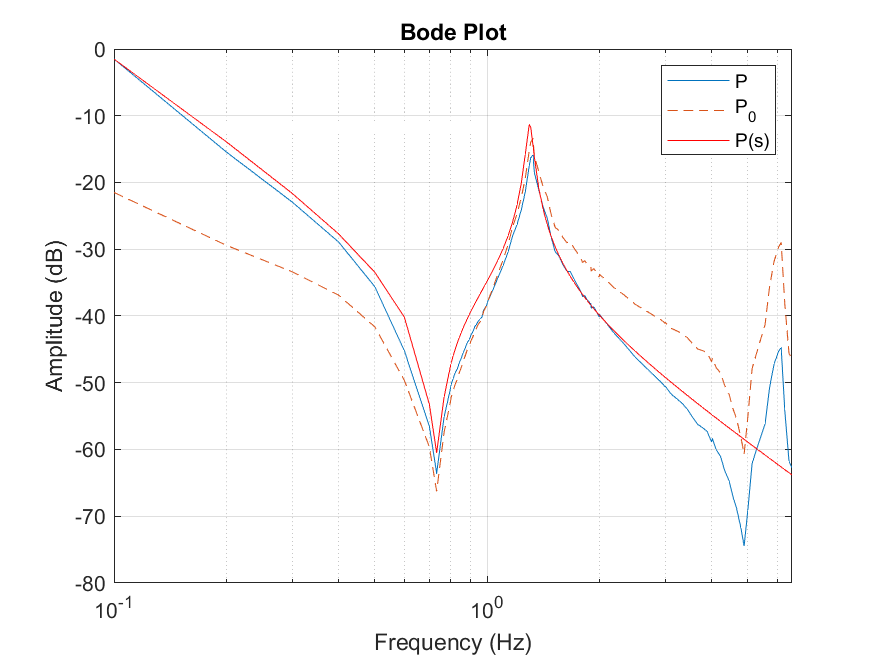
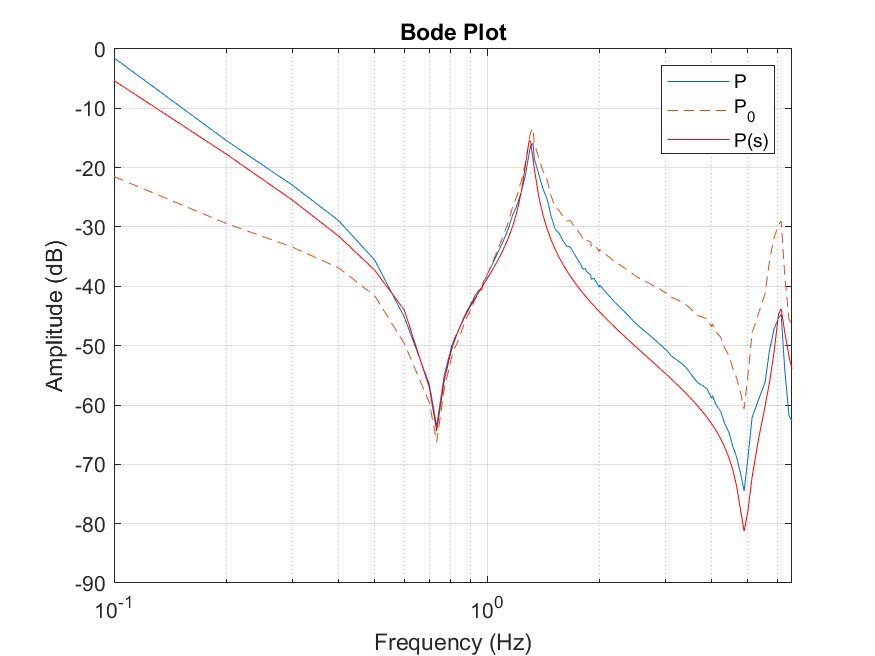
all poles

diff --git a/proj1main.m b/proj1main.m
@@ -15,12 +15,15 @@ phase_P0 = data(:,3);
 
 
 % Transfer function with anti resonance
+s = tf('s');
 DC_gain = 0.027;
-omega_ar = 0.73; % anti-resonance frequency
-omega_r = 1.3;
+omega_ar1 = 0.73; % anti-resonance frequency
+omega_r1 = 1.3;
+omega_ar2 = 4.9;
+omega_r2 = 6.1;
 zeta_z = 0.02; % Estimated damping
 zeta_p = 0.02;
-G = DC_gain * (1/s^2) * (s^2 + 2*zeta_z*omega_ar*s + omega_ar^2) / (s^2 + 2*zeta_p*omega_r*s + omega_r^2);
+G = DC_gain * (1/s^2) * (s^2 + 2*zeta_z*omega_ar1*s + omega_ar1^2) / (s^2 + 2*zeta_p*omega_r1*s + omega_r1^2) * (s^2 + 2*zeta_z*omega_ar2*s + omega_ar2^2) / (s^2 + 2*zeta_p*omega_r2*s + omega_r2^2);
 [mag, phase, wout] = bode(G, freq);
 mag = squeeze(mag);
 
